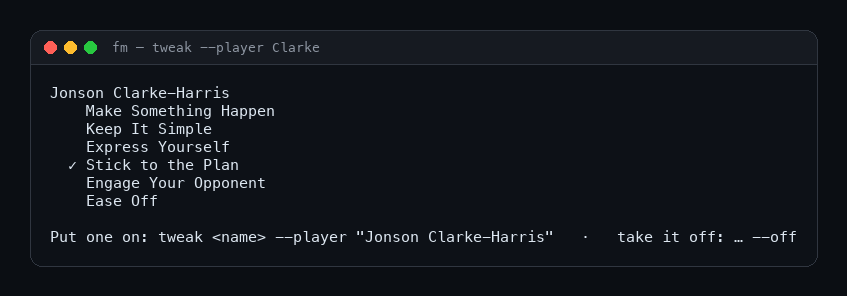
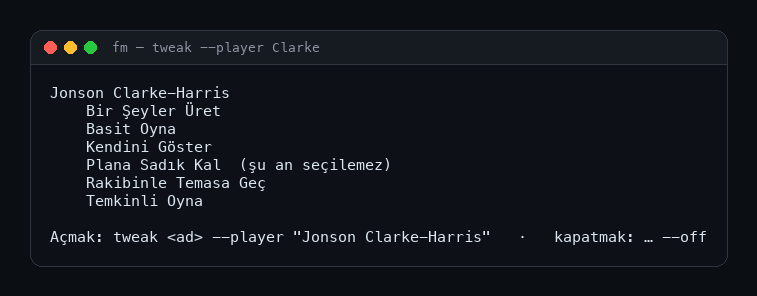
fix: tweak --player lists what the game offers that player; --reset takes back waiting changes
- A player's list is his row's own, with the game's check for greyed-out tweaks; a greyed one is refused.
- The pending list is read as the log it is; --reset drops changes still waiting to go on.
- match plays on after pause; pause and resume say so where they cannot act.
- status no longer says a match has not started at a goal's stop, and gives next --skip only where it works.
- An incoming offer's card no longer says the fee leaves the budget.
- Labels with quotes in them are found again.

diff --git a/cli/fm/Match/Tweaks.cs b/cli/fm/Match/Tweaks.cs
@@ -244,10 +244,36 @@ internal static partial class Program
 				return 1;
 			}
 			var player = hits[0];
-			// The tweaks for his position: each entry's ValidPositions mask holds the row's PlayerPosition.
-			ulong.TryParse(Field(player, "Position"), out var position);
-			var options = read.GetProperty("Options").EnumerateArray()
-				.Where(o => position == 0 || !ulong.TryParse(Field(o, "Positions"), out var mask) || mask == 0 || (mask & position) != 0).ToList();
+			// The tweaks the game offers him: his row's own list, there once the row is expanded (only one
+			// row is at a time), with the game's own word on which are greyed out. His row's toggle is told by
+			// the row its Source names, so no order of rows comes into it.
+			var options = new List<JsonElement>();
+			var expanded = false;
+			var offeredCount = -1;
+			await Until(async () =>
+			{
+				var said = await Fm.Get("tweaks", ("rows", Field(player, "Id")));
+				if (said.StartsWith("error", StringComparison.Ordinal)) return false;
+				var rows = JsonDocument.Parse(said).RootElement.GetProperty("Options").EnumerateArray().ToList();
+				if (rows.Count == 0 && !expanded)
+				{
+					var toggle = (await Fm.GetJson("buttons", ("json", "1"))).EnumerateArray()
+						.FirstOrDefault(b => Field(b, "Name") == "expand-toggle" && Field(b, "Source") == Field(player, "Row"));
+					if (toggle.ValueKind != JsonValueKind.Object) return false;
+					await Fm.Get("press", ("ptr", Field(toggle, "Pointer")));
+					expanded = true;
+					return false;
+				}
+				var settled = rows.Count > 0 && rows.Count == offeredCount && rows.All(r => Field(r, "Disabled").Length > 0);
+				offeredCount = rows.Count;
+				options = rows;
+				return settled;
+			}, seconds: 8, every: 0.3);
+			if (options.Count == 0 || options.Any(r => Field(r, "Disabled").Length == 0))
+			{
+				Console.Error.WriteLine(L("The individual tweaks could not be read."));
+				return 1;
+			}
 
 			async Task<HashSet<string>> OnFor()
 			{
@@ -261,17 +287,20 @@ internal static partial class Program
 				}
 				return on;
 			}
+			// In the game's own order: its list of individual tweaks (a row's list reads in reverse).
+			var shownOrder = read.GetProperty("Options").EnumerateArray().Select(o => Field(o, "Number")).ToList();
+			options = options.OrderBy(o => shownOrder.IndexOf(Field(o, "Number"))).ToList();
 			var active = await OnFor();
 			var words = Words(args).ToList();
 			if (words.Count == 0)
 			{
 				if (json)
 				{
-					Console.WriteLine(JsonOut.Of(options.Select(o => new { Id = Field(o, "Id"), Name = Field(o, "Name"), On = active.Contains(Field(o, "Number")) })));
+					Console.WriteLine(JsonOut.Of(options.Select(o => new { Id = Field(o, "Id"), Name = Field(o, "Name"), On = active.Contains(Field(o, "Number")), Disabled = Field(o, "Disabled") == "True" })));
 					return 0;
 				}
 				Console.WriteLine(Field(player, "Name"));
-				foreach (var o in options) Console.WriteLine($"  {(active.Contains(Field(o, "Number")) ? "✓" : " ")} {Field(o, "Name")}");
+				foreach (var o in options) Console.WriteLine($"  {(active.Contains(Field(o, "Number")) ? "✓" : " ")} {Field(o, "Name")}{(Field(o, "Disabled") == "True" ? L("  (not available now)") : "")}");
 				Console.WriteLine(L($"\nPut one on: tweak <name> --player \"{Field(player, "Name")}\"   ·   take it off: … --off"));
 				return 0;
 			}
@@ -286,6 +315,12 @@ internal static partial class Program
 			{
 				Console.WriteLine(L($"{Field(player, "Name")} · {Field(tweak, "Name")}: already {(off ? L("off") : L("on"))}"));
 				return 0;
+			}
+			// The game greys a tweak out when it would change nothing for him; its row cannot be clicked.
+			if (!off && Field(tweak, "Disabled") == "True")
+			{
+				Console.Error.WriteLine(L($"{Field(player, "Name")} · {Field(tweak, "Name")}: the game does not offer it now."));
+				return 1;
 			}
 			var said = await Fm.Get("tweaks", ("toggle", Field(tweak, "Id")), ("player", Field(player, "Id")), ("off", off ? "1" : "0"));
 			if (said.StartsWith("error", StringComparison.Ordinal)) return Report(said);
@@ -340,8 +375,47 @@ internal static partial class Program
 			return 1;
 		}
 		var said = await Fm.Get("select", ("ptr", Field(reset, "Pointer")), ("value", scope.ToString()), ("fire", "1"));
+		if (said.StartsWith("error", StringComparison.Ordinal))
+		{
+			await ShutTweaksPopup(opened);
+			return Report(said);
+		}
+		// The game's Reset leaves a change still waiting to go on (measured TR: a team tweak made at a stop,
+		// then Reset, came on when play went on). Each is taken back as its own row's click would.
+		bool ForPlayer(JsonElement op) => Field(op, "TacticTweakTargetPlayerIndex") is { Length: > 0 } at && at != "-1";
+		bool InScope(JsonElement op) => scope == 2 || ForPlayer(op) == (scope == 1);
+		async Task<JsonElement> Now() => JsonDocument.Parse(await Fm.Get("tweaks", ("gen", $"r{Environment.TickCount64}"))).RootElement;
+		// The pending list is a log: taking a change back adds a removal after it, so a tweak's last entry is what it will be.
+		List<JsonElement> Waiting(JsonElement now) => now.GetProperty("Pending").EnumerateArray()
+			.GroupBy(op => (Field(op, "TacticTweakID"), Field(op, "TacticTweakTargetPlayerIndex"))).Select(g => g.Last())
+			.Where(op => Field(op, "TacticTweakPendingOpKind") == "1" && InScope(op)).ToList();
+		var seen = await Now();
+		var waiting = Waiting(seen);
+		foreach (var op in waiting.Where(op => !ForPlayer(op)))
+			if (seen.GetProperty("Team").EnumerateArray().FirstOrDefault(t => Field(t, "Number") == Field(op, "TacticTweakID")) is { ValueKind: JsonValueKind.Object } team)
+				await Fm.Get("tweaks", ("toggle", Field(team, "Id")), ("off", "1"));
+		if (waiting.Any(ForPlayer) && (await TweaksPopup("IndividualTab")).Up)
+		{
+			JsonElement individual = default;
+			await Until(async () =>
+			{
+				var read = await Fm.Get("tweaks", ("individual", "1"));
+				if (read.StartsWith("error", StringComparison.Ordinal)) return false;
+				individual = JsonDocument.Parse(read).RootElement;
+				return individual.GetProperty("Players").GetArrayLength() > 0;
+			}, seconds: 8, every: 0.3);
+			if (individual.ValueKind == JsonValueKind.Object)
+				foreach (var op in waiting.Where(ForPlayer))
+					if (individual.GetProperty("Options").EnumerateArray().FirstOrDefault(o => Field(o, "Number") == Field(op, "TacticTweakID")) is { ValueKind: JsonValueKind.Object } option)
+						await Fm.Get("tweaks", ("toggle", Field(option, "Id")), ("player", Field(op, "UniqueId")), ("off", "1"));
+		}
+		var dropped = waiting.Count == 0 || await Until(async () => Waiting(await Now()).Count == 0, seconds: 5, every: 0.25);
 		await ShutTweaksPopup(opened);
-		if (said.StartsWith("error", StringComparison.Ordinal)) return Report(said);
+		if (!dropped)
+		{
+			Console.Error.WriteLine(L("Reset sent, but a change still waiting did not go: see tweak."));
+			return 1;
+		}
 		if (await TacticsPanelOpen())
 		{
 			Console.WriteLine(L("The match's tactics panel is open: the change is made when it is closed with Confirm Changes."));

diff --git a/plugin/FmCliProbe/src/Reads/Tweaks.cs b/plugin/FmCliProbe/src/Reads/Tweaks.cs
@@ -81,6 +81,7 @@ internal static class Tweaks
 		if (q["where"] == "1") return Where();
 		if (q["period"] == "1") { var (state, match) = Period(); return $"{state}\t{match}\n"; }
 		if (q["individual"] == "1") return Individual();
+		if (!string.IsNullOrEmpty(q["rows"])) return PlayerRows(q["rows"]);
 		if (!string.IsNullOrEmpty(q["toggle"]) && !string.IsNullOrEmpty(q["player"])) return TogglePlayer(q["toggle"], q["player"], q["off"] == "1", q["dry"] == "1");
 		if (!string.IsNullOrEmpty(q["toggle"])) return Toggle(q["toggle"], q["off"] == "1", q["dry"] == "1");
 		return Current(q["gen"]);
@@ -205,9 +206,9 @@ internal static class Tweaks
 		{
 			string name;
 			try { name = Text.Shown(entry.NameTranslationID.TranslatedString ?? ""); } catch { name = ""; }
-			return $"{{\"Id\": {Quote(entry.TweakID.ToString())}, \"Number\": \"{(int)entry.TweakID}\", \"Name\": {Quote(name)}, \"Positions\": \"{(ulong)entry.ValidPositions}\"}}";
+			return $"{{\"Id\": {Quote(entry.TweakID.ToString())}, \"Number\": \"{(int)entry.TweakID}\", \"Name\": {Quote(name)}}}";
 		});
-		var players = Players().Select(p => $"{{\"Id\": {Quote(p.Id)}, \"Name\": {Quote(p.Name)}, \"Index\": {Quote(p.Index)}, \"Position\": {Quote(p.Position)}}}");
+		var players = Players().Select(p => $"{{\"Id\": {Quote(p.Id)}, \"Name\": {Quote(p.Name)}, \"Index\": {Quote(p.Index)}, \"Row\": {Quote(p.Row)}}}");
 		return $"{{\"Options\": [{string.Join(", ", rows)}], \"Players\": [{string.Join(", ", players)}]}}\n";
 	}
 
@@ -229,9 +230,9 @@ internal static class Tweaks
 	}
 
 	/// <summary>The players of the Individual tab: each row's Person and its place in the selection (the row's Slot.Index, what TacticTweakTargetPlayerIndex holds).</summary>
-	private static List<(string Id, string Name, string Index, string Position, string Path, SI.Core.TypedValue Value)> Players()
+	private static List<(string Id, string Name, string Index, string Row, SI.Core.TypedValue Value)> Players()
 	{
-		var found = new List<(string, string, string, string, string, SI.Core.TypedValue)>();
+		var found = new List<(string, string, string, string, SI.Core.TypedValue)>();
 		var seen = new HashSet<string>();
 		foreach (var (path, node) in Report.Walk())
 		{
@@ -250,9 +251,46 @@ internal static class Tweaks
 				for (var s = c.FirstChild; s != null; s = s.NextSibling)
 					if (s.Name == "Index" && s.Value is { IsNull: false } i) index = Text.Of(i);
 			}
-			found.Add((id, Field("Name"), index, "", at, value));
+			// The row's own path: what its expand-toggle gives as Source.
+			found.Add((id, Field("Name"), index, at[..at.LastIndexOf('.')], value));
 		}
 		return found;
+	}
+
+	/// <summary>
+	/// The tweaks the game offers one player: the rows of his PlayerTweaksList, there only while his row is
+	/// expanded, so the game's own filter by position has been through them. Whether each is greyed out is
+	/// the game's own check, IsTweakDisabled, on the very values that row binds.
+	/// </summary>
+	private static string PlayerRows(string player)
+	{
+		var row = Players().FirstOrDefault(p => p.Id == player).Row;
+		if (row == null) return $"error: no player {player} in the Individual tab";
+		var rows = new List<string>();
+		foreach (var (path, node) in Report.Walk())
+		{
+			if (node.Name != "tweak" || !path.TrimStart('.').StartsWith(row + ".PlayerTweaksList", StringComparison.Ordinal)) continue;
+			if (node.Value?.Get()?.TryCast<FM.UI.TacticalTweakEntry>() is not { } entry) continue;
+			SI.Core.TypedValue position = null, instructions = null, mentality = null;
+			for (var c = node.Parent?.FirstChild; c != null; c = c.NextSibling)
+				for (var f = c.FirstChild; f != null; f = f.NextSibling)
+				{
+					if (f.Name == "PlayerPosition") position = f.Value;
+					else if (f.Name == "savedinstructions") instructions = f.Value;
+					else if (f.Name == "savedmentality") mentality = f.Value;
+				}
+			string name;
+			try { name = Text.Shown(entry.NameTranslationID.TranslatedString ?? ""); } catch { name = ""; }
+			string disabled;
+			try
+			{
+				disabled = position == null || instructions == null || mentality == null || !uint.TryParse(Text.Of(position), out var mask) ? ""
+					: FM.UI.TacticalTweakVisualFunctions.IsTweakDisabled(node.Value, instructions, mentality, mask) ? "True" : "False";
+			}
+			catch (Exception e) { return $"error: IsTweakDisabled: {e.GetType().Name}: {e.Message}"; }
+			rows.Add($"{{\"Id\": {Quote(entry.TweakID.ToString())}, \"Number\": \"{(int)entry.TweakID}\", \"Name\": {Quote(name)}, \"Disabled\": {Quote(disabled)}}}");
+		}
+		return $"{{\"Row\": {Quote(row)}, \"Options\": [{string.Join(", ", rows)}]}}\n";
 	}
 
 	/// <summary>Sends what an individual tweak's row sends: the tweak, for one player (by his UniqueId).</summary>

diff --git a/cli/fm/Match/MatchDay.cs b/cli/fm/Match/MatchDay.cs
@@ -241,6 +241,17 @@ internal static partial class Program
 			return await InstantResult(state);
 		}
 
+		// Stopped by `pause`: asking for the match is asking for it to go on. Without this it would stand
+		// still until the watch below calls it a decision the game is waiting for. No dialog may be up
+		// (a button under one would act behind it), and a talk screen has no such button.
+		if (inMatch && Field(state, "Playing") != "True" && Field(state, "Period") is "FirstHalf" or "SecondHalf" or "ExtraTime"
+		    && (await Fm.GetJson("dialog")).GetArrayLength() == 0
+		    && (await Fm.GetJson("buttons", ("json", "1"))).EnumerateArray().FirstOrDefault(b => Field(b, "Events").Contains("MatchTogglePlayPause", StringComparison.Ordinal)) is { ValueKind: JsonValueKind.Object } play)
+		{
+			await Fm.Get("press", ("ptr", Field(play, "Pointer")));
+			await Until(async () => Field(await Fm.GetJson("state"), "Playing") == "True", seconds: 5, every: 0.25);
+		}
+
 		// A talk stop waits for someone to choose what is said. At a terminal it is asked on the
 		// spot; a script is handed the choice and the match left waiting, unless told to pass
 		// the talks by.
@@ -529,7 +540,7 @@ internal static partial class Program
 				var hurt = (await MatchPlayers(atStop: true)).Where(p => p.Value.Injury != 0).Select(p => p.Key).ToList();
 				Console.Error.WriteLine(hurt.Count > 0
 					? L($"The match stopped at {time}': {string.Join(", ", hurt)} is injured; the game is waiting for a substitution.")
-					: L($"The match stopped at {time}' and the game is waiting for a decision (most likely a substitution after an injury or a red card)."));
+					: L($"The match stopped at {time}'. If it was paused: resume. Otherwise the game is waiting for a decision (most likely a substitution after an injury or a red card)."));
 				// Seen at a real injury stop: `sub` then `match` carried on from there.
 				Console.Error.WriteLine(L("For a substitution: sub <off> <on>   ·   to carry on as it is: match   ·   what is on screen: buttons"));
 				return 1;

diff --git a/cli/fm/Core/Clock.Status.cs b/cli/fm/Core/Clock.Status.cs
@@ -101,7 +101,8 @@ internal static partial class Program
 				: score + (home ? L(" (we are at home)") : L(" (we are away)"));
 			var minute = Field(state, "MatchTime");
 			if (watchedMatch) board += L("  (a match we are watching, not the first team's)");
-			Console.WriteLine(minute == "" ? L($"In a match, not started yet.  {board}") : L($"In a match. {minute}  {board}"));
+			// The clock is not bound at a goal's stop either, and then there is a score: "–" is one before kick-off.
+			Console.WriteLine(minute == "" && score == "–" ? L($"In a match, not started yet.  {board}") : L($"In a match. {minute}  {board}"));
 			// A team talk holds the match until something is said.
 			Console.WriteLine((await TalkOptions()).Count > 0
 				? L("Waiting in a team talk. To speak: talk   (to skip the talk: match --no-talk)")
@@ -149,7 +150,8 @@ internal static partial class Program
 		if ((Passable(flow) || flow is "NeedAction" or "PressConference") && await OpenQuestion() is { } asked)
 		{
 			Console.WriteLine(L($"There is an open question{(asked.Length > 0 ? $": \"{asked}\"" : "")}"));
-			Console.WriteLine(L("To answer: talk   (to go on: next)"));
+			// A conversation an answer opened holds the game (next refuses it); a question after a match does not.
+			Console.WriteLine(flow == "NeedAction" ? L("To answer: talk") : L("To answer: talk   ·   to go on without answering: next --skip"));
 			return 0;
 		}
 		if (Passable(flow)) Console.WriteLine(L("Ready to continue: next"));

diff --git a/cli/fm/Transfer/OfferScreen.Labels.cs b/cli/fm/Transfer/OfferScreen.Labels.cs
@@ -77,7 +77,7 @@ internal sealed partial class OfferScreen
 				Console.WriteLine($"{SectionName(group.Key)}:");
 				foreach (var row in group) Console.WriteLine($"  {Say(row.Label)}: {row.Shown}{(row.Lock is { Value: not "Negotiable" and not "" } l ? $"  [{SayLock(l.Value)}]" : "")}");
 			}
-			var costs = new[] { BudgetCost.Length > 0 ? L($"From the budget: {BudgetCost}") : "", TotalCost.Length > 0 ? $"{TotalName}: {TotalCost}" : "" }.Where(c => c.Length > 0).ToList();
+			var costs = new[] { BudgetCost.Length > 0 && !Incoming ? L($"From the budget: {BudgetCost}") : "", TotalCost.Length > 0 ? $"{TotalName}: {TotalCost}" : "" }.Where(c => c.Length > 0).ToList();
 			if (costs.Count > 0) Console.WriteLine(string.Join(" · ", costs));
 			return;
 		}
@@ -92,7 +92,7 @@ internal sealed partial class OfferScreen
 					+ LockMark(row.Lock)));
 		}
 		grid.AddRow(new Text(""), new Text(""));
-		if (BudgetCost.Length > 0) grid.AddRow(new Markup(L("[dim]From the budget[/]")), new Markup($"[bold]{Ui.Safe(BudgetCost)}[/]"));
+		if (BudgetCost.Length > 0 && !Incoming) grid.AddRow(new Markup(L("[dim]From the budget[/]")), new Markup($"[bold]{Ui.Safe(BudgetCost)}[/]"));
 		if (TotalCost.Length > 0) grid.AddRow(new Markup($"[dim]{Ui.Safe(TotalName)}[/]"), new Markup($"{Ui.Safe(TotalCost)}"));
 		grid.AddRow(new Markup(L("[dim]Offer[/]")), new Markup(Ui.Safe(string.Join(" · ", Options.Select(o => o.Choice.Value)))));
 

diff --git a/cli/fm/Match/MatchControls.cs b/cli/fm/Match/MatchControls.cs
@@ -504,6 +504,12 @@ internal static partial class Program
 			Console.WriteLine(gone ? L("Replay skipped.") : L("Told to skip the replay, but it is still playing."));
 			return gone ? 0 : 1;
 		}
+		// A talk or another screen has no play button: the match goes on from there by match.
+		if (!(await Fm.GetJson("buttons", ("json", "1"))).EnumerateArray().Any(b => Field(b, "Events").Contains("MatchTogglePlayPause", StringComparison.Ordinal)))
+		{
+			Console.Error.WriteLine(L("The match's play button is not on this screen. To carry on: match"));
+			return 1;
+		}
 		var wantPlaying = command == "resume";
 		async Task<bool> Playing() => Field(await Fm.GetJson("state"), "Playing") == "True";
 		if (await Playing() == wantPlaying)
@@ -514,6 +520,8 @@ internal static partial class Program
 		var said = await Fm.Get("press", ("event", "MatchTogglePlayPause"));
 		if (said.StartsWith("error", StringComparison.Ordinal)) return Report(said);
 		var done = await Until(async () => await Playing() == wantPlaying, seconds: 5, every: 0.25);
+		// At the game's own stop (a red card, an injury) the button changes nothing; match carries on from there.
+		if (!done && wantPlaying) Console.Error.WriteLine(L("To carry on: match"));
 		Console.WriteLine(!done ? L("The button was pressed, but the match did not change.") : wantPlaying ? L("The match goes on.") : L("The match is paused."));
 		return done ? 0 : 1;
 	}

diff --git a/cli/fm/Core/Clock.cs b/cli/fm/Core/Clock.cs
@@ -347,6 +347,10 @@ internal static partial class Program
 					var again = (await Bound("inbox", "PortalScreen")).EnumerateArray()
 						.Where(m => Field(m, "NewsItemIsPriority") == "True" && Field(m, "CanRespond") == "True")
 						.Select(m => Field(m, "NewsTitleString")).Where(t => t is { Length: > 0 }).ToList();
+					// Like the blocking messages above, it may be below the first window.
+					if (again.Count == 0)
+						again = (await AllInbox()).Where(m => Field(m, "NewsItemIsPriority") == "True" && Field(m, "CanRespond") == "True")
+							.Select(m => Field(m, "NewsTitleString")).Where(t => t is { Length: > 0 }).ToList();
 					if (again.Count > 0)
 					{
 						output.WriteLine(L("The game may be waiting for a message to be answered again:"));

diff --git a/cli/fm/Transfer/OfferScreen.cs b/cli/fm/Transfer/OfferScreen.cs
@@ -17,6 +17,8 @@ internal sealed partial class OfferScreen
 	public string Club { get; private init; } = "";
 	public string Player { get; private init; } = "";
 	public string BudgetCost { get; private init; } = "";
+	/// <summary>An offer made to us: its fee comes in, so no line says it leaves the budget.</summary>
+	public bool Incoming { get; set; }
 	public string TotalCost { get; private init; } = "";
 	/// <summary>What the total is of: a loan's is the cost should it become permanent.</summary>
 	public string TotalCostTitle { get; private init; } = "";

diff --git a/cli/fm/Transfer/Offers.cs b/cli/fm/Transfer/Offers.cs
@@ -83,7 +83,7 @@ internal static partial class Program
 				Console.Error.WriteLine(failed);
 				return 1;
 			}
-			var card = await Offer(["offer"]);
+			var card = await Offer(offer.Incoming ? ["offer", "--incoming"] : ["offer"]);
 			// The card stays up in the game with the director's conversation beside it, which reads as a
 			// question waiting (status, next) though there is nothing to answer there. The offers list is
 			// the row already chosen in its menu and does not reopen, so the portal is opened instead.

diff --git a/cli/fm/Transfer/Transfers.cs b/cli/fm/Transfer/Transfers.cs
@@ -52,6 +52,7 @@ internal static partial class Program
 					Console.WriteLine(JsonOut.Of(shown.Summary()));
 					return 0;
 				}
+				shown.Incoming = args.Contains("--incoming");
 				shown.Draw();
 				var answers = await TalkOptions();
 				if (answers.Count > 0) Console.WriteLine(L($"\nThe options on screen: {string.Join(" · ", answers.Select(a => a.Label))}  (talk <no>)"));

diff --git a/docs/TASKS.md b/docs/TASKS.md
@@ -74,11 +74,15 @@ An event the code never names is not always a gap; each line was checked against
   - `tweak --player <p>` and `tweak --reset team|individual|all` go through the match bar's tweaks popup
     (`tweaks-button`), no tactics panel; the popup is shut again. A player's place is his row's `Slot.Index`. While the
     ball rolls the game makes a change by itself, at a stop when play goes on; with the panel up, at its Confirm.
-    Measured EN, Pendikspor – Ankaragücü: list cold, repeated, another player, unknown player; on / off / already on,
-    paused and playing; reset read back with the ball rolling: individual 3, team 2, all 2; at a goal's stop it says "when play goes on"; on a talk screen it says it cannot open.
-  - [ ] The same in Turkish.
+  - A player's list is his row's own `PlayerTweaksList`, bound once the row is expanded (`expand-toggle`, told by its
+    `Source`). Greyed out is the game's `IsTweakDisabled` on the values the row binds. Checked against the screen, TR:
+    goalkeeper 3 of 6, Stick to the Plan greyed for outfield players; a greyed one refused.
+  - `TacticPendingTweakOps` is a log: a tweak's last entry is what it will be. The game's Reset leaves a waiting change, so
+    `--reset` takes those back. TR, paused: team, individual, all, and each scope leaves the other; after play went on, none came on.
+  - Measured EN and TR: list cold, repeated, another player, unknown player, a man sent off; on / off / already on.
   - [ ] Extra time.
-  - [ ] Individual tweaks by position: every entry's `ValidPositions` reads 0, so a goalkeeper is offered the outfield list.
+- [ ] T99 `next` said "offer or half-way message" after a teammate failed to talk Atakan round, 16 Aug 2028: the answered
+  message offered its choices again but was not named, though the same case with Utku was. `AllInbox` is now looked at too; not met again.
 - [ ] T11 TransferRoom (In, Out, Agent Offers): adverts by type and view, discard agents' offered players.
 - [ ] T12 Squad Planner (planner, contracts, current best XI): add, move, remove, ask assistant, copy.
 - [ ] T13 Tactic: personalised roles (`EventFmxTogglePositionPersonalisedRole`), swap two players
@@ -112,19 +116,20 @@ An event the code never names is not always a gap; each line was checked against
   then "already read". `news <#>` marks a story read already: its tile sends `MarkMediaNewsAsRead` with `RunNewsAction`.
   EN 9 → 0, then "already read". The `--tasks` filter's fixed 500 ms wait is now "the list reads differently".
 - [ ] T25 `dugout`: next / previous / dismiss advice.
-- [ ] T26 `pause` / `resume` (MatchTogglePlayPause, read back by Playing): EN 3 × each, both already-states. `skip`
-  (MatchSkipReplay): the button is always there; only an enabled one counts. EN: a replay skipped once, no replay 3 × says
-  so; once right after a goal it said "still playing", cause not known. Turkish left.
+- [ ] T26 `pause` / `resume` (MatchTogglePlayPause, read back by Playing): TR and EN, both already-states; no play button (a
+  talk) says `match`; at the game's own stop the button does nothing and it says `match`. `match` after `pause` plays on. `skip`
+  (MatchSkipReplay): only an enabled button counts. EN and TR: a replay skipped once each, no replay says so. Left: once right
+  after a goal (EN) it said "still playing", cause not known.
 - [x] T27 `holiday … --jobs <kind> | --no-jobs`: the switch `holiday.applyforjobs` and the list
   `holiday.applyforjobsdropdownselectedoption` by its own values (−1 is the prompt), or by the shown words. `--dry` sets the
   page and leaves by its CancelButton. TR: 3 × two kinds, an unknown kind, a real week with `--no-jobs`; EN 3 × and a kind by the game's words.
 - [ ] T28 `fm youth candidates`: rows not seen yet (intake each March; PORTING).
-- [ ] T29 After a goal with a change pending, the game's question (dialog `Type` `cancelTweaks`, "Proceed with tweak
-  after this goal?"). `match` stops and says `dialog`. EN, 3 goals: Yes then Confirm made the tweak; No twice dropped every
-  pending change, active ones stay. Turkish left, and `cancelChanges` (a tactic change, not a tweak) not met.
-- [ ] T97 The match bar's Tactics button (`tactic`, `MatchOpenTactics`): opens the panel once on a screen; after the panel
-  is cancelled, press and click do nothing (EN: 6 of 6, paused and playing) until the screen is rebuilt at half time. Nothing
-  depends on it now; find why before a command needs the panel.
+- [ ] T29 After a goal with a change pending, the game's question (dialog `Type` `cancelTweaks`). `match` stops and says
+  `dialog`. EN 3 goals, TR 2: Yes makes the tweak, No drops every waiting change, active ones stay. Left: `cancelChanges`
+  (a tactic change, not a tweak) not met.
+- [ ] T97 The match bar's Tactics button (`tactic`, `MatchOpenTactics`): EN, first half, after the panel was cancelled press
+  and click did nothing, 6 of 6, until half time. TR: second half paused 5 of 5 opens again; before kick-off 5 of 5. First half
+  not tried again. Nothing depends on it now.
 - [ ] T98 `talk`: a journalist pressing with the same answers on offer read as "did not move on". Now the words said count
   too (`Says`). Not met again yet: check at the next one.
 - [x] T30 The active tactic's name is right again ("pendik-yedek-t1", from `tactic load`). FM27's tactic menus have no

diff --git a/docs/MANUAL.md b/docs/MANUAL.md
@@ -192,6 +192,11 @@ seconds, at a break when play goes on. The game itself takes off a tweak that do
 new one. Tweaks work once the match has kicked off. `--player` and `--reset` need the match screen, so
 they do not work on a talk screen.
 
+- `--player` lists what the game offers that player: a goalkeeper gets fewer. One the game has greyed out
+  is marked and cannot be put on.
+- `--reset` also takes back changes still waiting to go on.
+- After `pause`, `match` carries on as `resume` does.
+
 - A change left waiting when a goal goes in: the game asks "Proceed with tweak after this goal?". `match`
   stops and says `dialog`; Yes keeps the waiting changes, No drops them.
 
